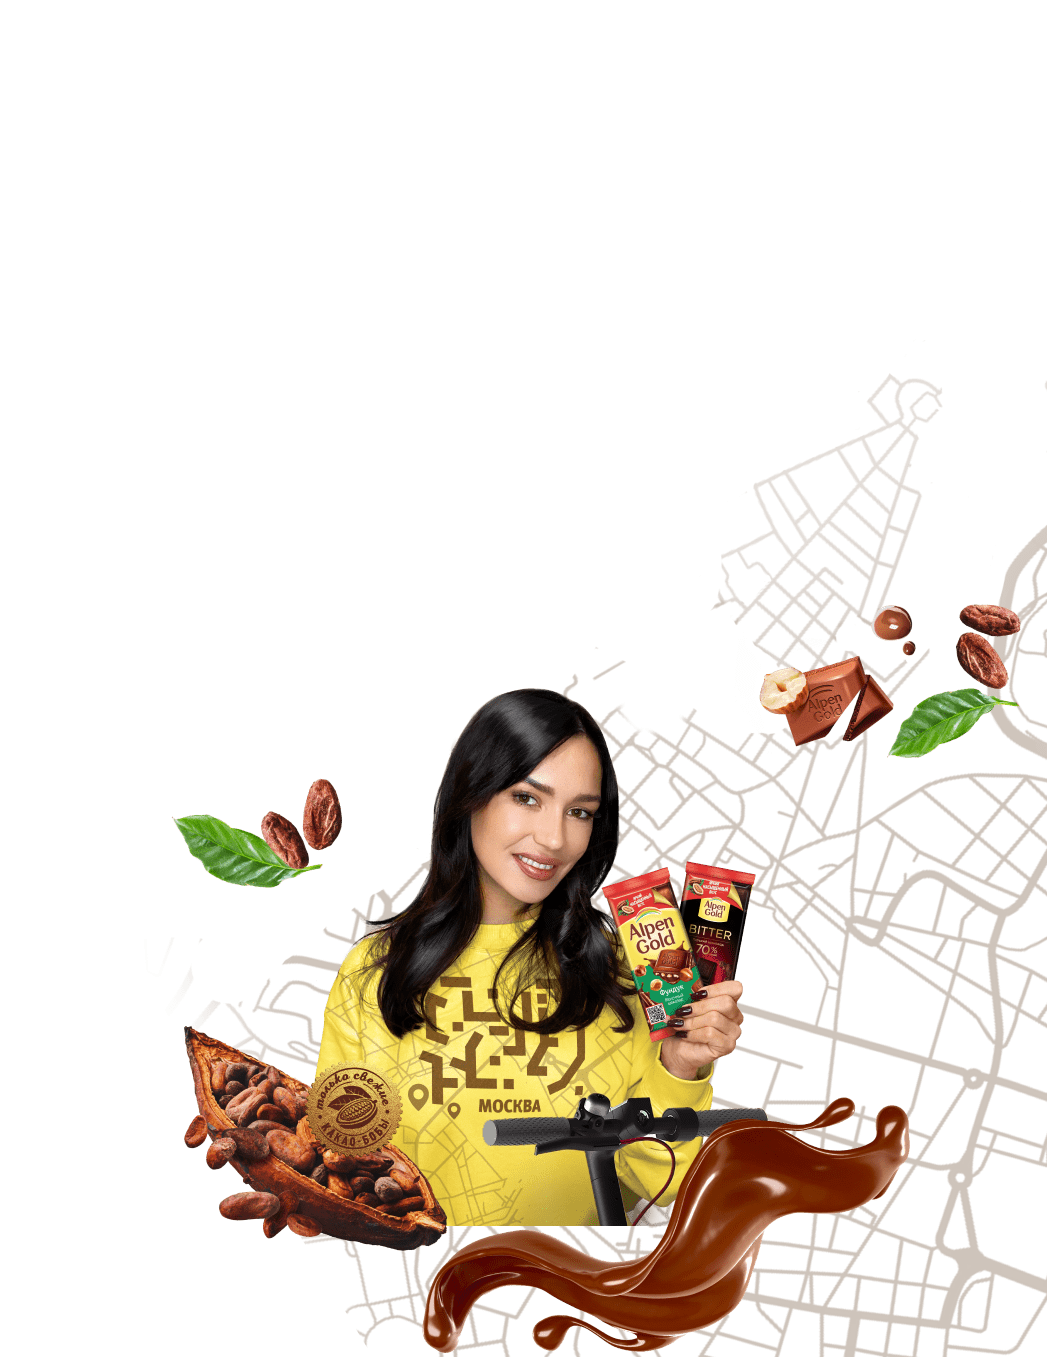
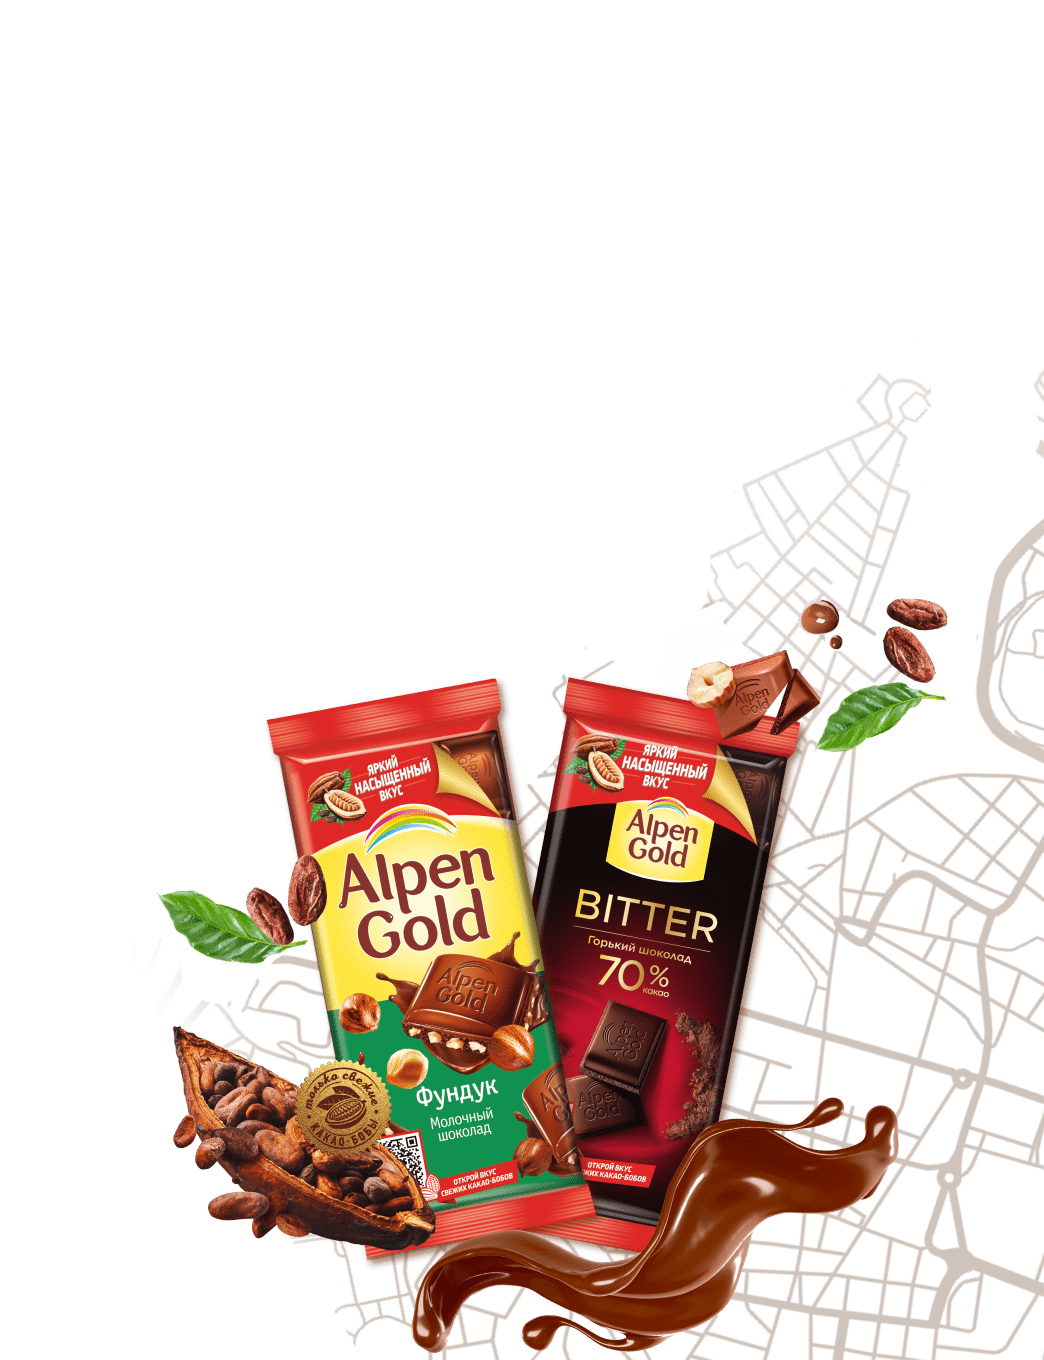
del seryabkina

Changed region(s): [[0.1533, 0.2786, 1.0, 1.0], [0.9808, 0.8047, 1.0, 0.8666], [0.9808, 0.2786, 1.0, 0.3405]]

diff --git a/css/styles.css b/css/styles.css
@@ -730,7 +730,7 @@ header ~ .inner-page {
     top: 7px;
     right: 0;
     width: 212px;
-    height: 160px;
+    height: 122px;
     background: url(../img/ex-perekrestok.svg) center no-repeat;
     background-size: contain;
 }
@@ -2524,12 +2524,12 @@ table td:nth-child(3) {
     position: absolute;
     top: 0;
     left: 0;
-    right: 0;
+    right: -445px;
     margin: auto;
     max-width: 1366px;
     width: 100%;
     height: 803px;
-    background: url(../img/kv.png) right 0 no-repeat;
+    background: url(../img/kv.png) center 0 no-repeat;
     background-size: 938px;
 }
 
@@ -3174,7 +3174,7 @@ table td:nth-child(3) {
         top: 7px;
         right: 15px;
         width: 162px;
-        height: 93px;
+        height: 92px;
         background: url(../img/ex-perekrestok-mob.svg) center no-repeat;
         background-size: contain;
         z-index: 11;
@@ -3685,9 +3685,10 @@ table td:nth-child(3) {
     }
 
     .kv {
-        height: 679px;
+        right: 0;
+        height: 680px;
         background: url(../img/kv-mob.png) center 0 no-repeat;
-        background-size: 524px;
+        background-size: 522px;
     }
 
     .action-info {
